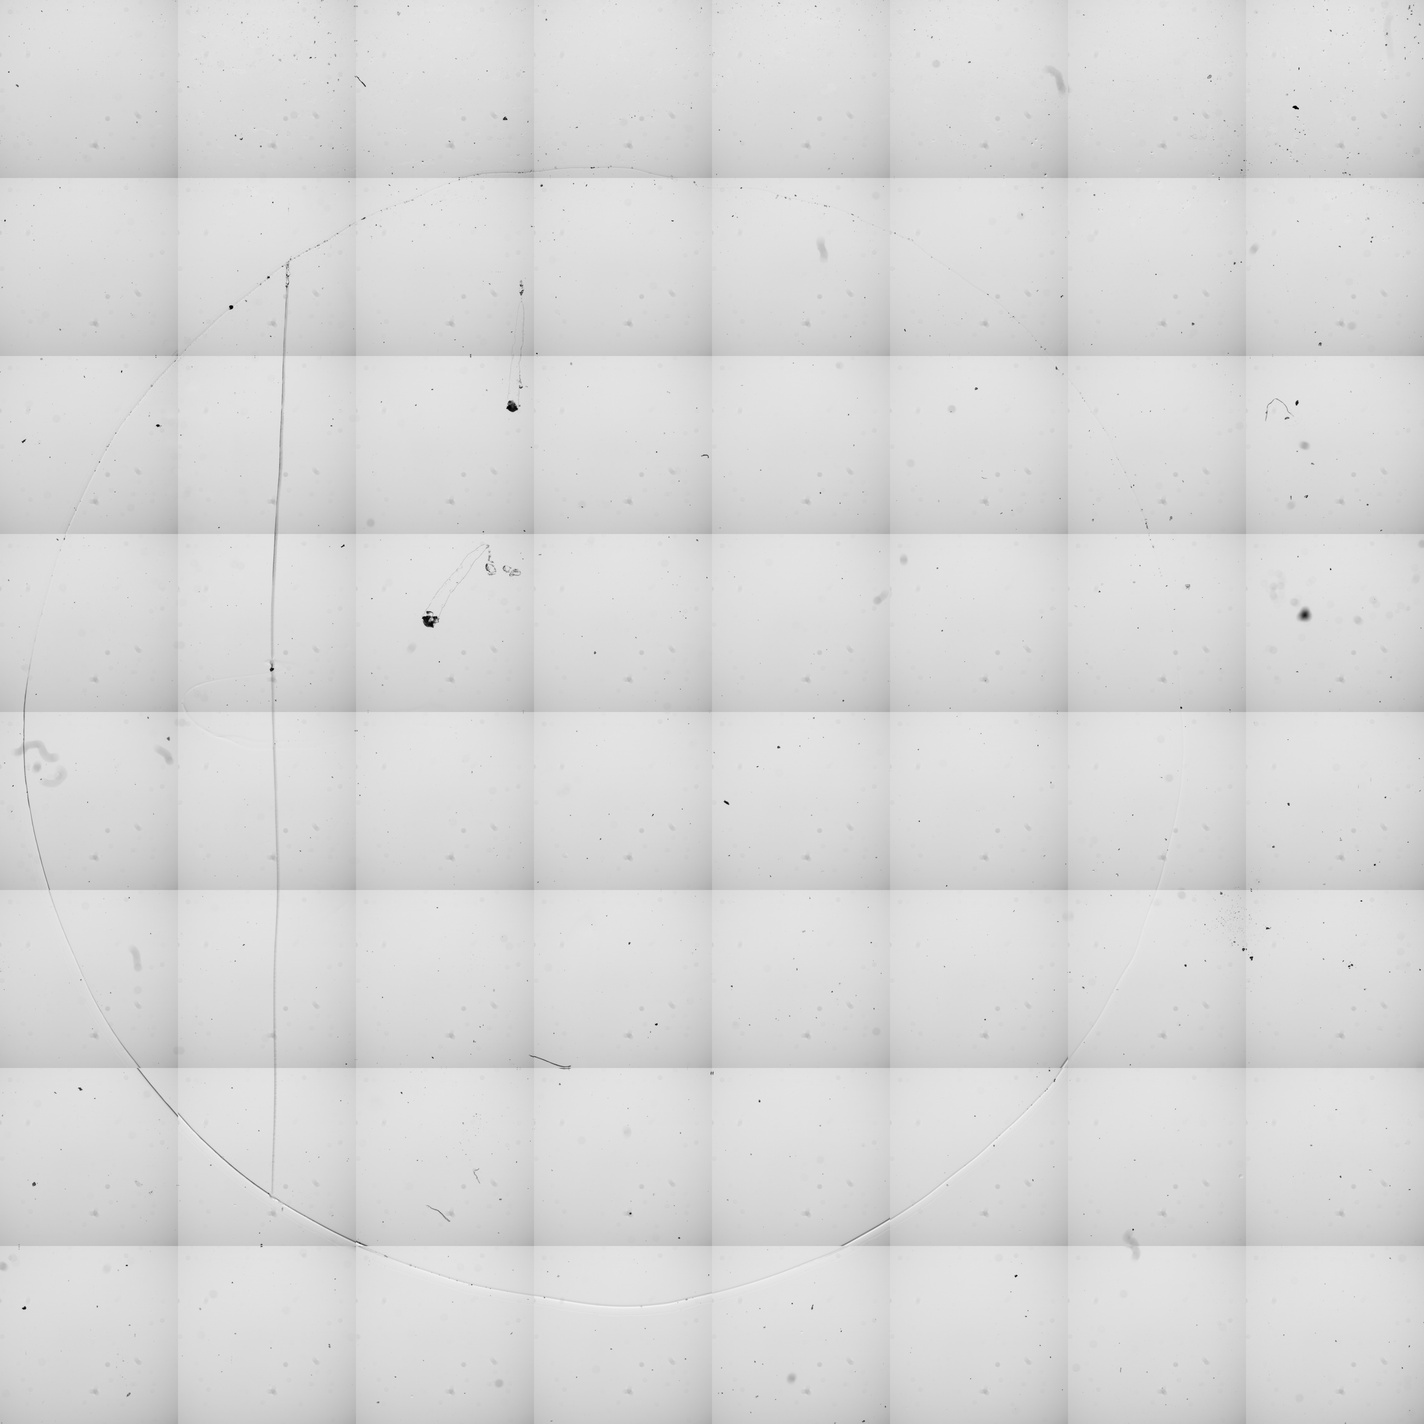
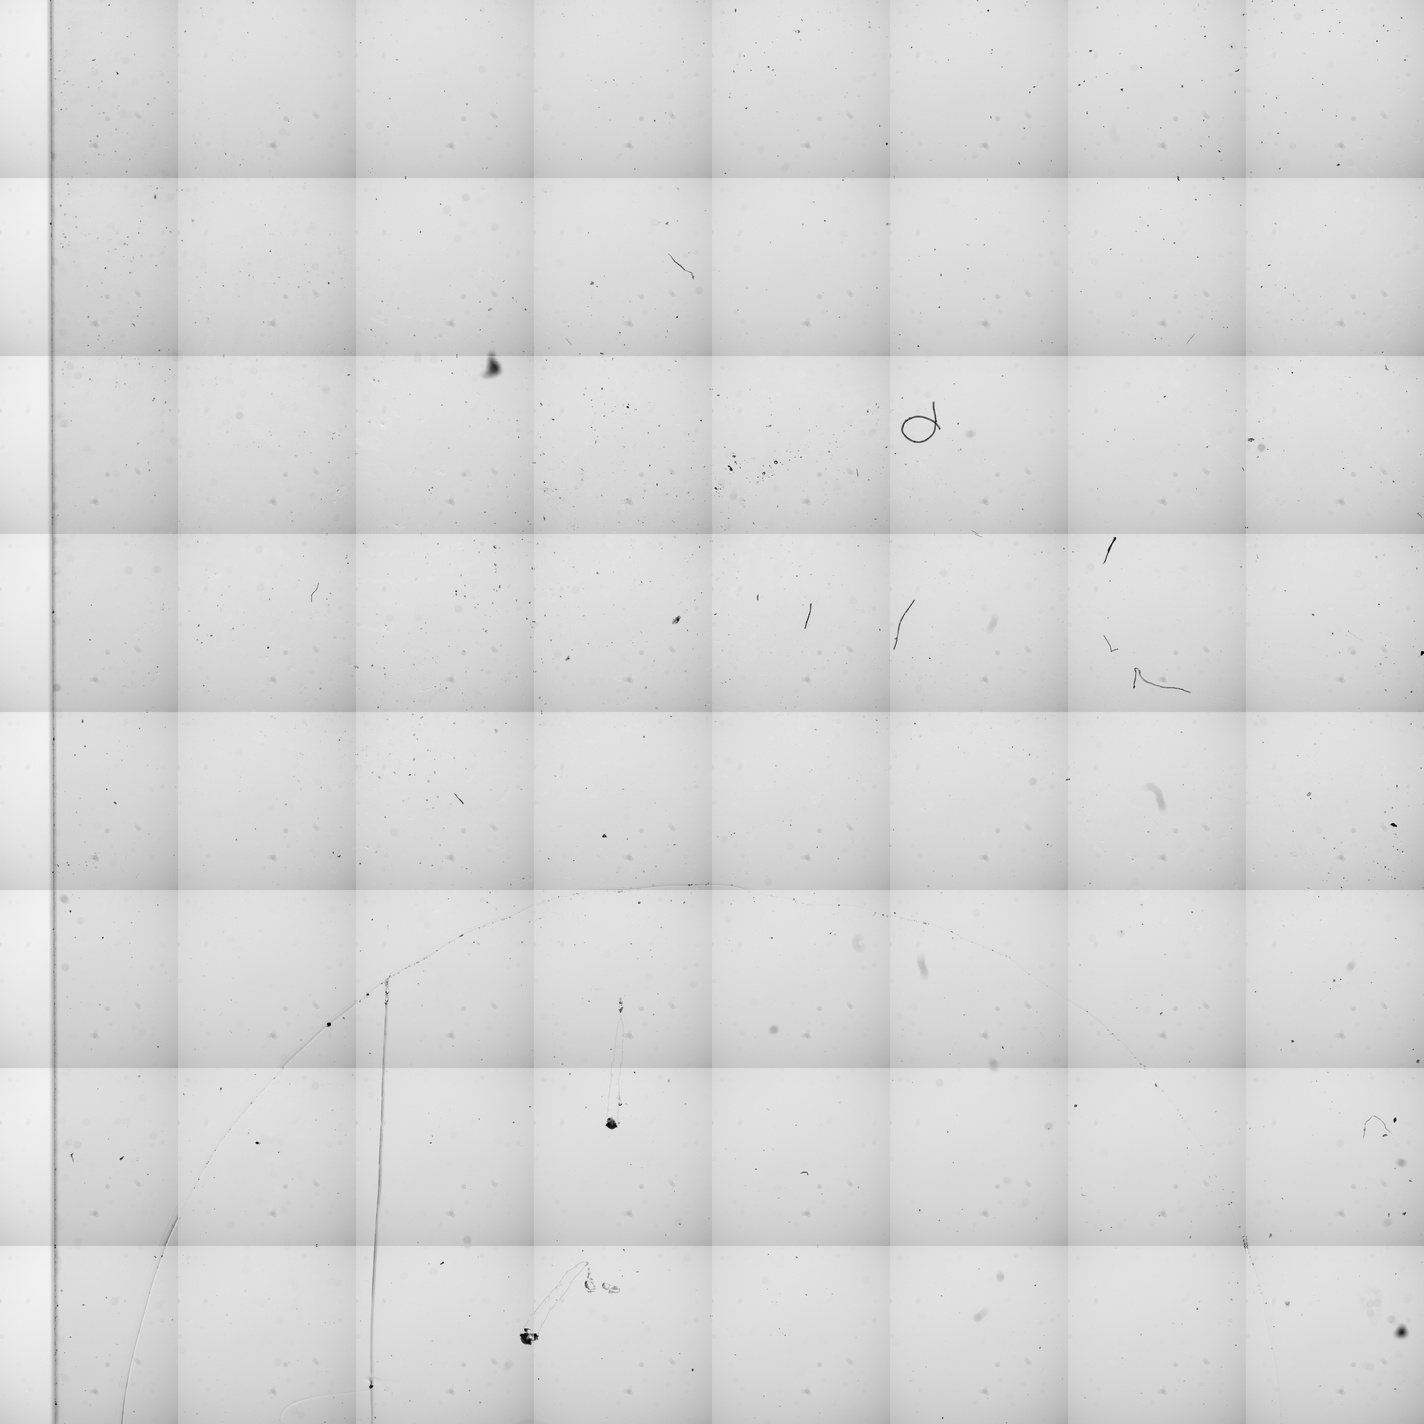
fix scan result position issue

diff --git a/src/interface/WormAnalysisApp.py b/src/interface/WormAnalysisApp.py
@@ -24,7 +24,7 @@ from src.system.dataset_manager import Dataset_Manager
 from src.system.Worm_Position_Manager import WormPositionManager
 
 class WormAnalysisApp:
-    def __init__(self, root, mmc = None, initial_dark_mode=True, first_page = "automatic_scan", initial_show_parameters = True, initial_live_image = True):
+    def __init__(self, root, mmc = None, initial_dark_mode=True, first_page = "automatic_scan", initial_show_parameters = True, initial_live_image = True, initial_id_worm_seen = 0):
         """
         Initializes the Worm Analysis Application interface.
 
@@ -72,7 +72,7 @@ class WormAnalysisApp:
         self.dark_mode = initial_dark_mode
         self.worms_position = None
         self.prediction = 85
-        self.id_worm_seen = 0
+        self.id_worm_seen = initial_id_worm_seen
         self.add_worm_scan_result = True
         self.live_image = initial_live_image
         self.bounding_box_size = 15 # Size of the bounding box around worms in pixels
@@ -1330,7 +1330,7 @@ class WormAnalysisApp:
             # 3) Re-initialize UI state by calling __init__ (kept for minimal change)
             #    We pass existing CORE and state flags so the app restarts in the same mode.
             try:
-                self.__init__(self.root, self.CORE, self.dark_mode, self.current_page, self.show_parameters, self.live_image)
+                self.__init__(self.root, self.CORE, self.dark_mode, self.current_page, self.show_parameters, self.live_image, self.id_worm_seen)
             except Exception as e:
                 # fallback: try a safer recreate of main_frame if __init__ fails
                 self.context_error = log_error(e, "Refresh UI reinit failed")
@@ -1463,6 +1463,7 @@ class WormAnalysisApp:
         try:
             self.current_page = page_id
             self.refresh_ui()
+            self.root.update_idletasks()
         except Exception as e:
             self.context_error = log_error(e, f"Switch page {page_id} failed")
     
@@ -1483,6 +1484,8 @@ class WormAnalysisApp:
             elif self.current_page == "scan_result":
                 middle_container = self.middle_result_container_ref
                 content_area = self.content_area_result_container_ref
+            else:
+                return
 
             container_width = middle_container.winfo_width()
             container_height = middle_container.winfo_height()
@@ -1503,6 +1506,8 @@ class WormAnalysisApp:
             content_area.place(x=x, y=y, width=width, height=height)
             
             self.last_scan_area_size = (int(width), int(height))
+            if width <= 0 or height <= 0:
+                return
             
             # --- Resize image accordingly ---
             if hasattr(self, 'original_image') and hasattr(self, 'img_label') and self.img_label.winfo_exists():
@@ -1608,6 +1613,14 @@ class WormAnalysisApp:
         4. Reconstructs the final image from the scan.
         5. Switches the page to display the scan results.
         """
+        try:
+            x, y = self.CORE.getXYPosition()
+            if hasattr(self, "init_pos_x"):
+                if x != self.init_pos_x or y != self.init_pos_y:
+                    self.CORE.setXYPosition(self.CORE.getXYStageDevice(), self.init_pos_x, self.init_pos_y)
+        except Exception as e:
+            self.context_error = log_error(e, "Go to start position failed")
+
         # Show "Starting scan" message
         try:
             self.scan_status_label.config(text="Launching scan... please wait.")
@@ -1756,8 +1769,7 @@ class WormAnalysisApp:
         
         # Compute relative position
         x_mouse = float(x_display / display_width)
-        y_mouse = float(y_display / display_height)  
-        print(f"{x_mouse},{y_mouse}") # TODO  
+        y_mouse = float(y_display / display_height)   
         x_bounding_box_proportion = float(self.bounding_box_size / display_width)
         y_bounding_box_proportion = float(self.bounding_box_size / display_height)
         
@@ -2924,11 +2936,18 @@ class WormAnalysisApp:
         navigation buttons, and a panel for showing prediction results and
         manual classification buttons.
         """
+
         # Clear previous widgets
         for widget in self.main_content.winfo_children():
             widget.destroy()
             
-        self.worms_position = WormPositionManager(new_acquisition=False)
+        self.worms_position = WormPositionManager(new_acquisition=False, id = self.id_worm_seen)
+        # move to the 1st worm
+        x_microscope, y_microscope = self.CORE.getXYPosition()
+        if [int(x_microscope), int(y_microscope)] not in self.worms_position.get_all_worm_microscope_position():
+            x_microscope_1st_worm, y_microscope_1st_worm = self.worms_position.get_worm_microscope_position(self.worms_position.get_id_worm_seen())
+            time.sleep(0.01)
+            self.CORE.setXYPosition(self.CORE.getXYStageDevice(), x_microscope_1st_worm, y_microscope_1st_worm)
             
         # Disable some paramaters buttons   
         self.update_parameter_widgets_state(disabled_widgets=["scan_shape", "scan_objective"]) 
@@ -3208,7 +3227,7 @@ class WormAnalysisApp:
 
         # 3. Text Container
         text_3_analysis_container = tk.Frame(right_map_analysis_container, bg=self.colors.theme["primary_background"])
-        text_3_analysis_container.grid(row=2, column=1, sticky="ew", pady=0, ipady=0)  # Remove all padding
+        text_3_analysis_container.grid(row=2, column=1, sticky="ew", pady=0, ipady=0) 
         self.id_worm_seen_label = tk.Label(
             text_3_analysis_container,
             text=f"{self.id_worm_seen+1}/{self.worms_position.get_number_of_worms()}",
@@ -3224,7 +3243,7 @@ class WormAnalysisApp:
 
         # 4. Two Buttons Side by Side - Use same row to eliminate gap
         bottom_buttons_4_analysis_container = tk.Frame(text_3_analysis_container, bg=self.colors.theme["primary_background"])
-        bottom_buttons_4_analysis_container.pack(side=tk.BOTTOM, pady=(5, 0))  # Remove fill=tk.X to center content
+        bottom_buttons_4_analysis_container.pack(side=tk.BOTTOM, pady=(5, 0))  
 
         # Create a single container for both buttons without expansion
         buttons_wrapper = tk.Frame(bottom_buttons_4_analysis_container, bg=self.colors.theme["primary_background"])
@@ -3232,7 +3251,7 @@ class WormAnalysisApp:
 
         # 1st - next worm
         sub1_4_analysis_container = tk.Frame(buttons_wrapper, bg=self.colors.theme["primary_background"])
-        sub1_4_analysis_container.pack(side=tk.LEFT, padx=(0, 1))  # Remove expand=True and fill=tk.X
+        sub1_4_analysis_container.pack(side=tk.LEFT, padx=(0, 1))  
         self.create_rounded_button(
             parent=sub1_4_analysis_container,
             text="",
@@ -3613,18 +3632,6 @@ class WormAnalysisApp:
         # Tooltip on hover
         Tooltip(info_binning_size_label, "Enter the size of each binning you have on your microscope.", title="Info", theme="info", posx=70, posy=-70)
 
-
-        
-
-        # Trigger resizing after layout completes with error handling
-        try:
-            if hasattr(self, 'main_content') and self.main_content.winfo_exists():
-                after_id = self.main_content.after(100, self.resize_scan_content_area)
-                if not hasattr(self, '_after_ids'):
-                    self._after_ids = []
-                self._after_ids.append(after_id)
-        except:
-            pass
         
     
     

diff --git a/src/system/Worm_Position_Manager.py b/src/system/Worm_Position_Manager.py
@@ -20,7 +20,7 @@ class WormPositionManager:
     calculating the shortest path using the Traveling Salesman Problem (TSP) algorithm.
     """
     
-    def __init__(self, output_folder = Path(RESSOURCES_DIR), new_acquisition = True, table_worm_position = [], filename: str = 'worm_positions.csv'):
+    def __init__(self, output_folder = Path(RESSOURCES_DIR), new_acquisition = True, table_worm_position = [], filename: str = 'worm_positions.csv', id = 0):
         """
         Initializes the WormPositionManager.
         
@@ -52,7 +52,7 @@ class WormPositionManager:
                 self._initialize_csv(table_worm_position)
             else:
                 self.find_shortest_path()
-                self.go_to_first_worm()
+                self.go_to_first_worm(id)
          
     def _initialize_csv(self, table_worm_position = []) -> None:
         """
@@ -183,7 +183,7 @@ class WormPositionManager:
         """
         df = pd.read_csv(self.csv_file_path)
         if df is not None and not df.empty:
-            positions = df[['x_microscope', 'y_microscope']].values.tolist()
+            positions = df[['x_microscope', 'y_microscope']].astype(int).values.tolist()
             return positions
         else:
             #print("CSV file is empty or not found")
@@ -415,9 +415,16 @@ class WormPositionManager:
         
         x = (x - start_corner_x) / (end_corner_x - start_corner_x)
         y = (y - start_corner_y) / (end_corner_y - start_corner_y)
-        # 0,0 is in the top right corner, so we need to change the origin
-        x_prop = 1 - y
-        y_prop = x
+
+        config = load_config_file()
+        shape = config.get("shape")
+        if shape == "square":
+            # 0,0 is in the top right corner, so we need to change the origin
+            x_prop = 1 - y
+            y_prop = x
+        else:
+            x_prop = 1 - x
+            y_prop = 1 - y
             
         return x_prop, y_prop
         
@@ -438,8 +445,14 @@ class WormPositionManager:
         end_corner_x = parameters.get('end_x')
         end_corner_y = parameters.get('end_y')
 
-        x = y_prop
-        y = 1 - x_prop
+        config = load_config_file()
+        shape = config.get("shape")
+        if shape == "square":
+            x = y_prop
+            y = 1 - x_prop
+        else:
+            x = 1 - x_prop
+            y = 1 - y_prop
 
         x_microscope = x * (end_corner_x - start_corner_x) + start_corner_x
         y_microscope = y * (end_corner_y - start_corner_y) + start_corner_y
@@ -447,7 +460,7 @@ class WormPositionManager:
         return x_microscope, y_microscope
     
     # Change worm being seen methods   
-    def go_to_first_worm(self):
+    def go_to_first_worm(self, id = 0):
         """
         Sets the first worm in the TSP-calculated path as the currently 'seen' worm.
         All other worms are marked as 'not seen'.
@@ -462,7 +475,7 @@ class WormPositionManager:
         df['seen'] = False
         
         # Set the first worm in the path (id_path = 0) to seen
-        mask_first = df['id_path'] == 0
+        mask_first = df['id_path'] == id
         df.loc[mask_first, 'seen'] = True
         
         # Save the updated DataFrame
